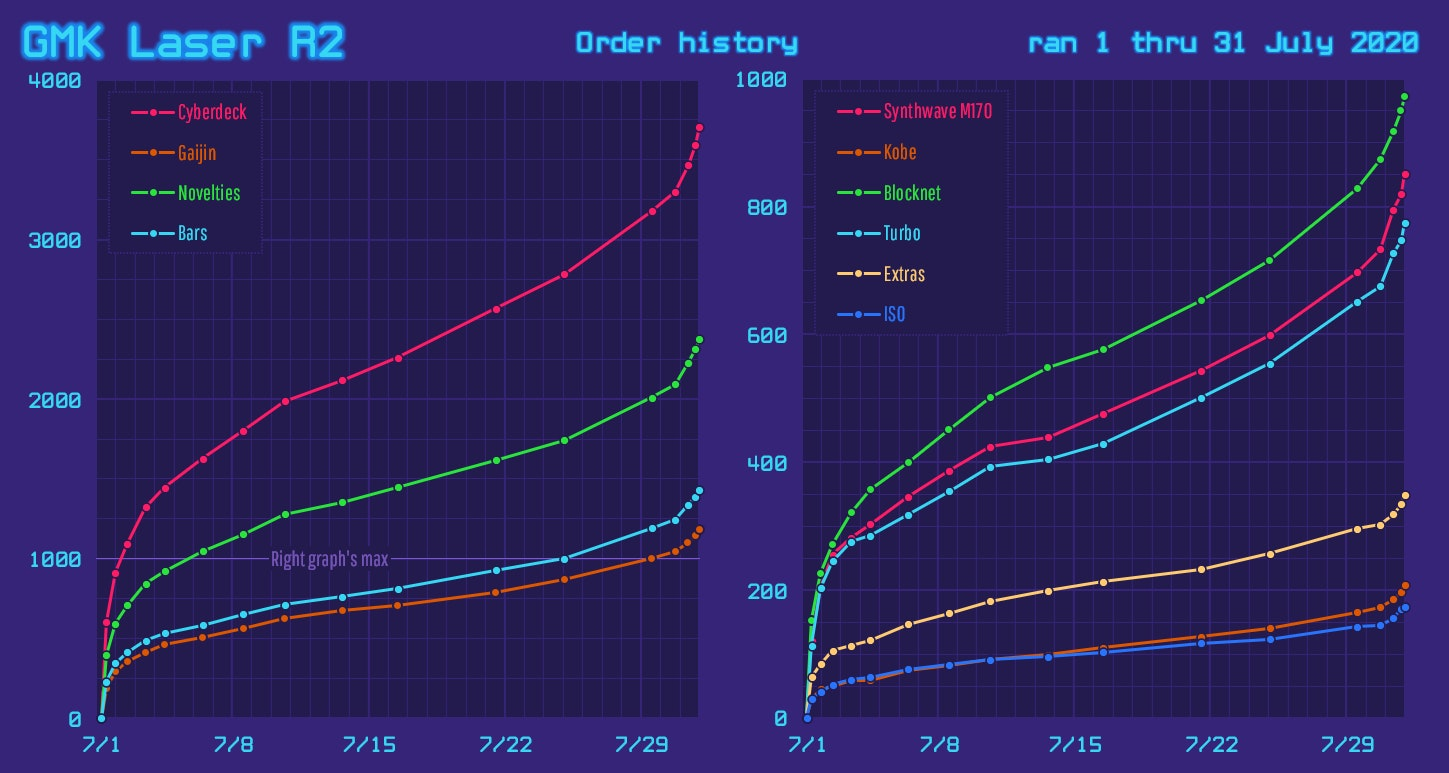
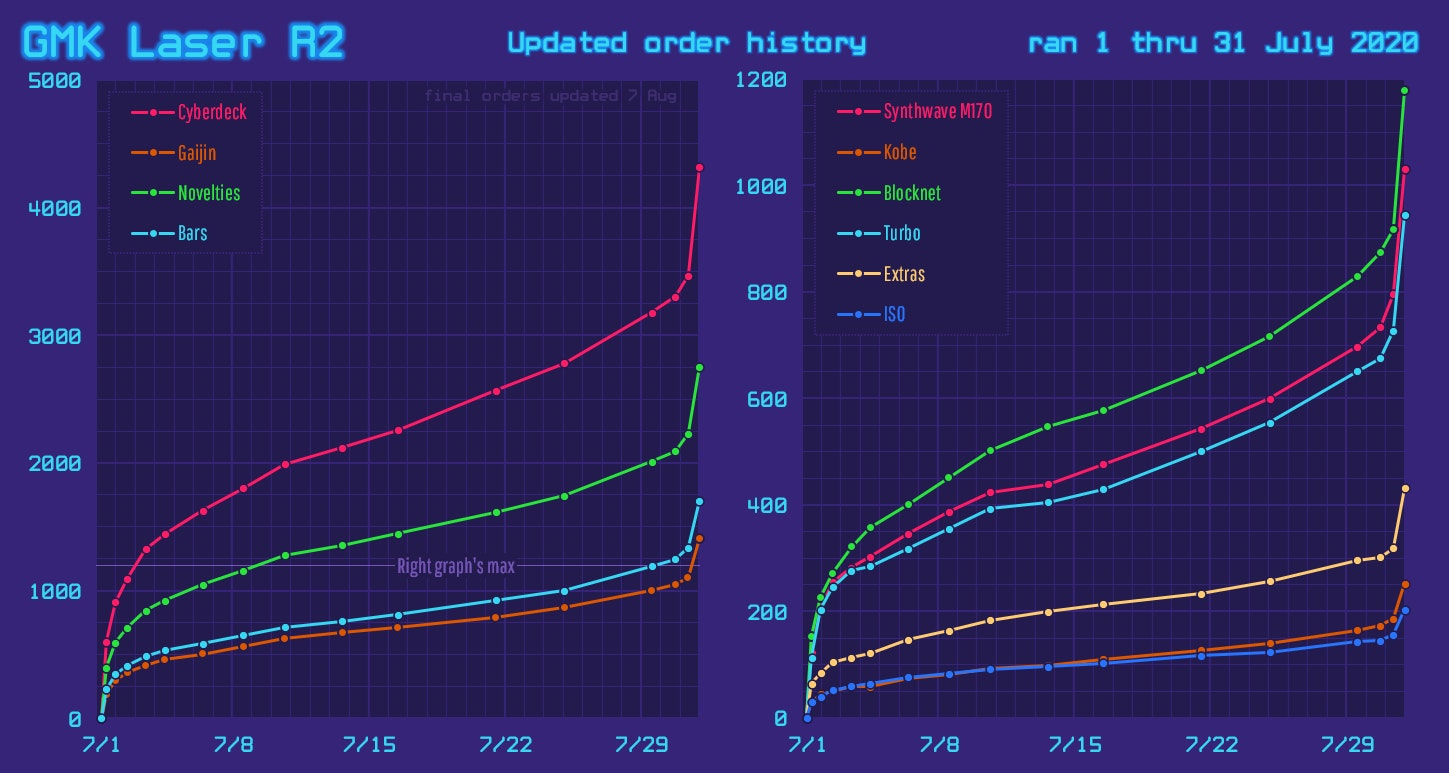
There are 6 files have been modified at 2020-08-19 17:46:41 . 	-rw-rw-r-- 1 jzou jzou 161878 Aug 19 17:46 assets/images/gmk-keycaps/laserr2/history.png 	-rw-rw-r-- 1 jzou jzou 92639 Aug 19 17:46 assets/images/gmk-keycaps/laserr2/order.png 	-rw-rw-r-- 1 jzou jzou 3480 Aug 19 17:46 docs/gmk-keycaps/La

diff --git a/docs/gmk-keycaps/Laser-R2.md b/docs/gmk-keycaps/Laser-R2.md
@@ -21,59 +21,59 @@ NOTE: USD to CNY exchange rate is 7.07
 
 | Name          | Price(MD)    |  Price(CNY) | Quantity |
 | ------------- | ------------ |  ---------- | -------- |
-|[Cyberdeck](#cyberdeck)|110.00|777.70|3707|
-|[Synthwave](#synthwave)|99.00|699.93|851|
-|[Gaijin](#gaijin)|65.00|459.55|1181|
-|[Kobe](#kobe)|65.00|459.55|208|
-|[Blocknet](#blocknet)|65.00|459.55|972|
-|[Novelties](#novelties)|45.00|318.15|2377|
-|[Turbo](#turbo)|45.00|318.15|775|
-|[Extras](#extras)|50.00|353.50|349|
-|[ISO](#iso)|60.00|424.20|173|
-|[Bars](#bars)|18.00|127.26|1431|
+|[Cyberdeck](#cyberdeck)|110.00|777.70|4317|
+|[Synthwave](#synthwave)|99.00|699.93|1030|
+|[Gaijin](#gaijin)|65.00|459.55|1407|
+|[Kobe](#kobe)|65.00|459.55|252|
+|[Blocknet](#blocknet)|65.00|459.55|1178|
+|[Novelties](#novelties)|45.00|318.15|2753|
+|[Turbo](#turbo)|45.00|318.15|944|
+|[Extras](#extras)|50.00|353.50|431|
+|[ISO](#iso)|60.00|424.20|203|
+|[Bars](#bars)|18.00|127.26|1703|
 
 <img src="{{ 'assets/images/gmk-keycaps/laserr2/history.png' | relative_url }}" alt="history" class="image featured">
 <img src="{{ 'assets/images/gmk-keycaps/laserr2/order.png' | relative_url }}" alt="order" class="image featured">
 
 ## Kits  
 ### Cyberdeck  
-**Price(MD):** 110.00    **Price(CNY):** 777.70    **Quantity:** 3707  
+**Price(MD):** 110.00    **Price(CNY):** 777.70    **Quantity:** 4317  
 <img src="{{ 'assets/images/gmk-keycaps/laserr2/kits_pics/cyberdeck.jpg' | relative_url }}" alt="cyberdeck" class="image featured">
 
 ### Synthwave  
-**Price(MD):** 99.00    **Price(CNY):** 699.93    **Quantity:** 851  
+**Price(MD):** 99.00    **Price(CNY):** 699.93    **Quantity:** 1030  
 <img src="{{ 'assets/images/gmk-keycaps/laserr2/kits_pics/synthwave.jpg' | relative_url }}" alt="synthwave" class="image featured">
 
 ### Gaijin  
-**Price(MD):** 65.00    **Price(CNY):** 459.55    **Quantity:** 1181  
+**Price(MD):** 65.00    **Price(CNY):** 459.55    **Quantity:** 1407  
 <img src="{{ 'assets/images/gmk-keycaps/laserr2/kits_pics/gaijin.jpg' | relative_url }}" alt="gaijin" class="image featured">
 
 ### Kobe  
-**Price(MD):** 65.00    **Price(CNY):** 459.55    **Quantity:** 208  
+**Price(MD):** 65.00    **Price(CNY):** 459.55    **Quantity:** 252  
 <img src="{{ 'assets/images/gmk-keycaps/laserr2/kits_pics/kobe.jpg' | relative_url }}" alt="kobe" class="image featured">
 
 ### Blocknet  
-**Price(MD):** 65.00    **Price(CNY):** 459.55    **Quantity:** 972  
+**Price(MD):** 65.00    **Price(CNY):** 459.55    **Quantity:** 1178  
 <img src="{{ 'assets/images/gmk-keycaps/laserr2/kits_pics/blocknet.jpg' | relative_url }}" alt="blocknet" class="image featured">
 
 ### Novelties  
-**Price(MD):** 45.00    **Price(CNY):** 318.15    **Quantity:** 2377  
+**Price(MD):** 45.00    **Price(CNY):** 318.15    **Quantity:** 2753  
 <img src="{{ 'assets/images/gmk-keycaps/laserr2/kits_pics/novelties.jpg' | relative_url }}" alt="novelties" class="image featured">
 
 ### Turbo  
-**Price(MD):** 45.00    **Price(CNY):** 318.15    **Quantity:** 775  
+**Price(MD):** 45.00    **Price(CNY):** 318.15    **Quantity:** 944  
 <img src="{{ 'assets/images/gmk-keycaps/laserr2/kits_pics/turbo.jpg' | relative_url }}" alt="turbo" class="image featured">
 
 ### Extras  
-**Price(MD):** 50.00    **Price(CNY):** 353.50    **Quantity:** 349  
+**Price(MD):** 50.00    **Price(CNY):** 353.50    **Quantity:** 431  
 <img src="{{ 'assets/images/gmk-keycaps/laserr2/kits_pics/extras.jpg' | relative_url }}" alt="extras" class="image featured">
 
 ### ISO  
-**Price(MD):** 60.00    **Price(CNY):** 424.20    **Quantity:** 173  
+**Price(MD):** 60.00    **Price(CNY):** 424.20    **Quantity:** 203  
 <img src="{{ 'assets/images/gmk-keycaps/laserr2/kits_pics/iso.jpg' | relative_url }}" alt="iso" class="image featured">
 
 ### Bars  
-**Price(MD):** 18.00    **Price(CNY):** 127.26    **Quantity:** 1431  
+**Price(MD):** 18.00    **Price(CNY):** 127.26    **Quantity:** 1703  
 <img src="{{ 'assets/images/gmk-keycaps/laserr2/kits_pics/bars.jpg' | relative_url }}" alt="bars" class="image featured">
 
 

diff --git a/docs/gmk-keycaps/Mecha-01.md b/docs/gmk-keycaps/Mecha-01.md
@@ -21,32 +21,34 @@ NOTE: USD to CNY exchange rate is 7.00
 
 | Name          | Price(GH)    |  Price(CNY) | Quantity |
 | ------------- | ------------ |  ---------- | -------- |
-|[Base](#base)|125.00|875.00|Unknown|
-|[Berserk](#berserk)|115.00|805.00|Unknown|
-|[Extras](#extras)|52.00|364.00|Unknown|
-|[Novelties](#novelties)|65.00|455.00|Unknown|
-|[Spacebars](#spacebars)|30.00|210.00|Unknown|
+|[Base](#base)|125.00|875.00|2592|
+|[Berserk](#berserk)|115.00|805.00|524|
+|[Extras](#extras)|52.00|364.00|342|
+|[Novelties](#novelties)|65.00|455.00|1500|
+|[Spacebars](#spacebars)|30.00|210.00|700|
 
+<img src="{{ 'assets/images/gmk-keycaps/mecha-01/history.png' | relative_url }}" alt="history" class="image featured">
+<img src="{{ 'assets/images/gmk-keycaps/mecha-01/order.png' | relative_url }}" alt="order" class="image featured">
 
 ## Kits  
 ### Base  
-**Price(GH):** 125.00    **Price(CNY):** 875.00    **Quantity:** Unknown  
+**Price(GH):** 125.00    **Price(CNY):** 875.00    **Quantity:** 2592  
 <img src="{{ 'assets/images/gmk-keycaps/mecha-01/kits_pics/base.png' | relative_url }}" alt="base" class="image featured">
 
 ### Berserk  
-**Price(GH):** 115.00    **Price(CNY):** 805.00    **Quantity:** Unknown  
+**Price(GH):** 115.00    **Price(CNY):** 805.00    **Quantity:** 524  
 <img src="{{ 'assets/images/gmk-keycaps/mecha-01/kits_pics/berserk.png' | relative_url }}" alt="berserk" class="image featured">
 
 ### Extras  
-**Price(GH):** 52.00    **Price(CNY):** 364.00    **Quantity:** Unknown  
+**Price(GH):** 52.00    **Price(CNY):** 364.00    **Quantity:** 342  
 <img src="{{ 'assets/images/gmk-keycaps/mecha-01/kits_pics/extras.png' | relative_url }}" alt="extras" class="image featured">
 
 ### Novelties  
-**Price(GH):** 65.00    **Price(CNY):** 455.00    **Quantity:** Unknown  
+**Price(GH):** 65.00    **Price(CNY):** 455.00    **Quantity:** 1500  
 <img src="{{ 'assets/images/gmk-keycaps/mecha-01/kits_pics/novelties.png' | relative_url }}" alt="novelties" class="image featured">
 
 ### Spacebars  
-**Price(GH):** 30.00    **Price(CNY):** 210.00    **Quantity:** Unknown  
+**Price(GH):** 30.00    **Price(CNY):** 210.00    **Quantity:** 700  
 <img src="{{ 'assets/images/gmk-keycaps/mecha-01/kits_pics/spacebars.png' | relative_url }}" alt="spacebars" class="image featured">
 
 
